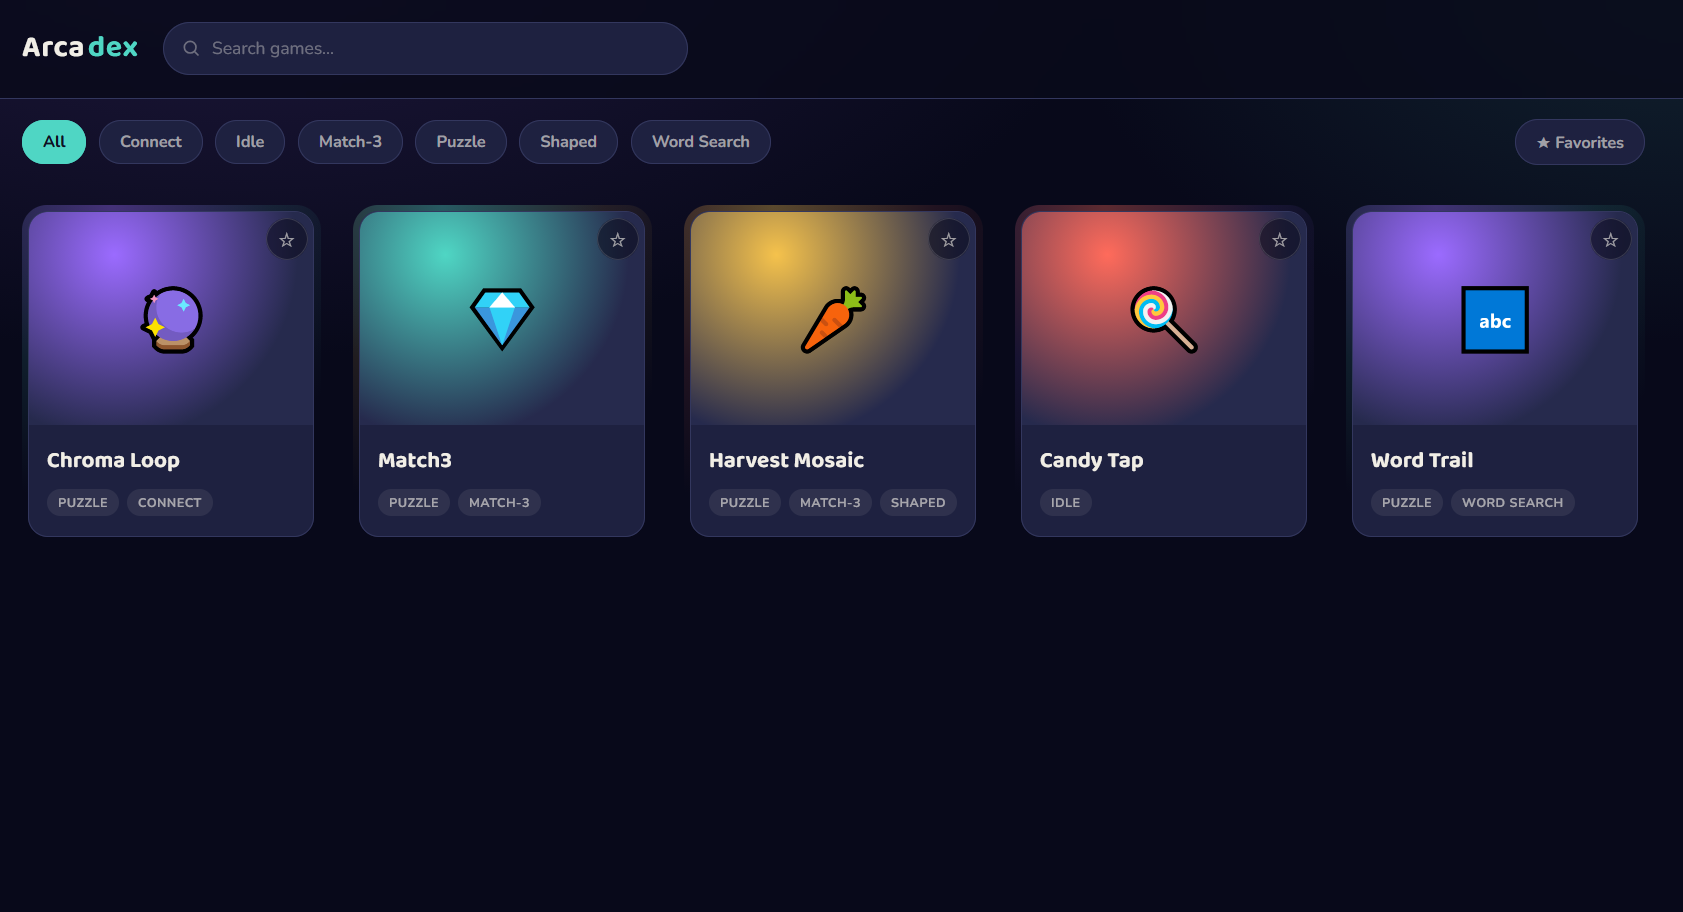
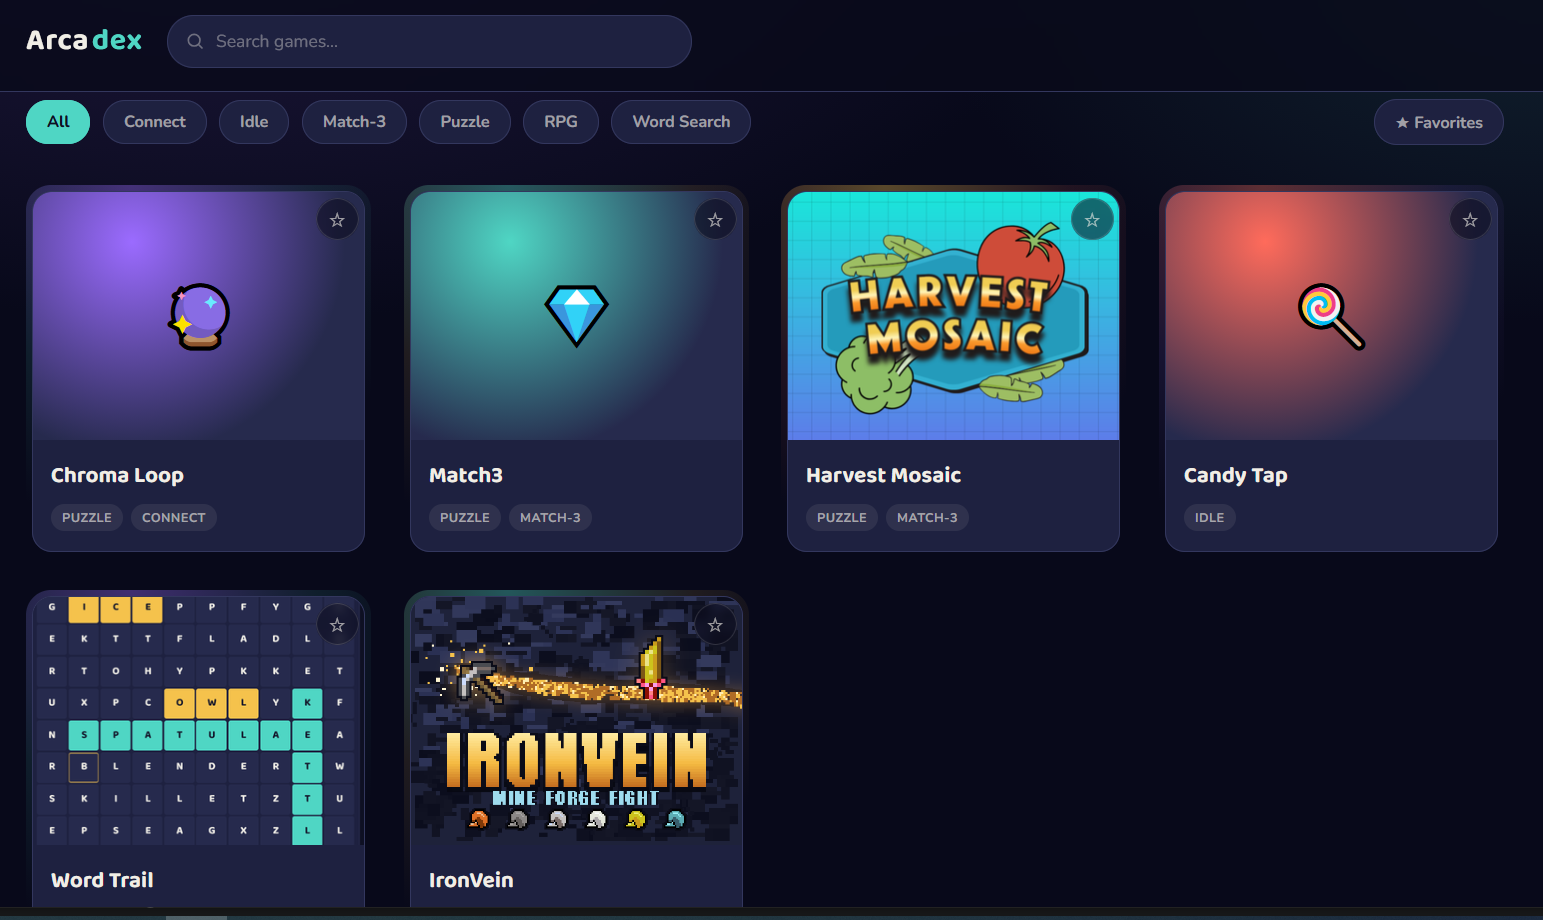
adding Ironvein into Arcadex portal

diff --git a/src/data/projects.ts b/src/data/projects.ts
@@ -7,6 +7,13 @@ export interface ProjectHighlight {
 	text: string;
 }
 
+export interface SubGame {
+	title: string;
+	genre: string;
+	/** Standalone playable build (itch.io), if the game has been published on its own. */
+	url?: string;
+}
+
 export interface Project {
 	slug: string;
 	title: string;
@@ -21,8 +28,8 @@ export interface Project {
 	overview: string;
 	role: string;
 	highlights: string[];
-	/** Only set for the Arcadex portal, rendered as a mini game-select grid instead of a screenshot. */
-	subGames?: { title: string; genre: string }[];
+	/** Only set for the Arcadex portal, rendered as a game-select grid on the case-study page. */
+	subGames?: SubGame[];
 }
 
 export const projects: Project[] = [
@@ -58,30 +65,26 @@ export const projects: Project[] = [
 		status: "Current · since July 2026",
 		tags: ["Phaser 3", "JavaScript", "HTML5 Canvas"],
 		summary:
-			"A portal of five browser-playable games — four built with Phaser 3, one in vanilla JS — built while rapidly prototyping game ideas with an AI-assisted workflow.",
+			"A growing portal of browser-playable games — most built with Phaser 3, others in vanilla JS — built while rapidly prototyping game ideas with an AI-assisted workflow.",
 		image: "/images/browser-games-portal-preview.png",
 		imageAlt: "Arcadex browser games portal",
-		links: [
-			{ label: "Play the portal", url: "https://arcadex-browsergames.vercel.app/" },
-			{ label: "Word Trail on itch.io", url: "https://kilsom.itch.io/word-trail" },
-			{ label: "Chroma Loop on itch.io", url: "https://kilsom.itch.io/chroma-loop" },
-			{ label: "Candy Tap on itch.io", url: "https://kilsom.itch.io/candy-tap" },
-		],
+		links: [{ label: "Play the portal", url: "https://arcadex-browsergames.vercel.app/" }],
 		overview:
-			"I build a portal of small browser games used to rapidly prototype and validate game ideas, using an AI-assisted development workflow to move from concept to playable build quickly. The portal currently hosts five games - spanning puzzle, match-3, and idle-clicker genres. The portal itself and three of the games are playable directly. (see links above)",
+			"I build a portal of small browser games used to rapidly prototype and validate game ideas, using an AI-assisted development workflow to move from concept to playable build quickly. The portal spans puzzle, match-3, word and idle-incremental genres, and keeps growing as new prototypes ship. The portal itself is playable directly, and several titles are also published standalone on itch.io.",
 		role: "Game programmer — gameplay systems and UI for each title in the portal.",
 		highlights: [
-			"Shipped five playable browser games in a matter of weeks using an AI-assisted, rapid-prototyping workflow.",
-			"Built four titles in Phaser 3 (Chroma Loop, Match3, Harvest Mosaic, Candy Tap) and one in plain HTML/CSS/JS (Word Trail).",
-			"Covered three distinct genres: connect/match puzzles, an idle incremental clicker and a word search.",
+			"Ship playable browser games in a matter of weeks each, using an AI-assisted, rapid-prototyping workflow.",
+			"Build most titles in Phaser 3 (Chroma Loop, Match3, Harvest Mosaic, Candy Tap, Ironvein) and others in plain HTML/CSS/JS (Word Trail).",
+			"Cover a range of genres: connect/match puzzles, word search and idle-incremental games with deeper progression systems.",
 			"Deployed and iterated on a live build via Vercel for stakeholder review.",
 		],
 		subGames: [
-			{ title: "Chroma Loop", genre: "Orb-connect puzzle" },
+			{ title: "Chroma Loop", genre: "Orb-connect puzzle", url: "https://kilsom.itch.io/chroma-loop" },
 			{ title: "Match3", genre: "Match-three puzzle" },
 			{ title: "Harvest Mosaic", genre: "Match-three puzzle" },
-			{ title: "Candy Tap", genre: "Idle / incremental" },
-			{ title: "Word Trail", genre: "Word search" },
+			{ title: "Candy Tap", genre: "Idle / incremental", url: "https://kilsom.itch.io/candy-tap" },
+			{ title: "Word Trail", genre: "Word search", url: "https://kilsom.itch.io/word-trail" },
+			{ title: "Ironvein", genre: "Idle / incremental RPG", url: "https://kilsom.itch.io/ironvein" },
 		],
 	},
 	{
